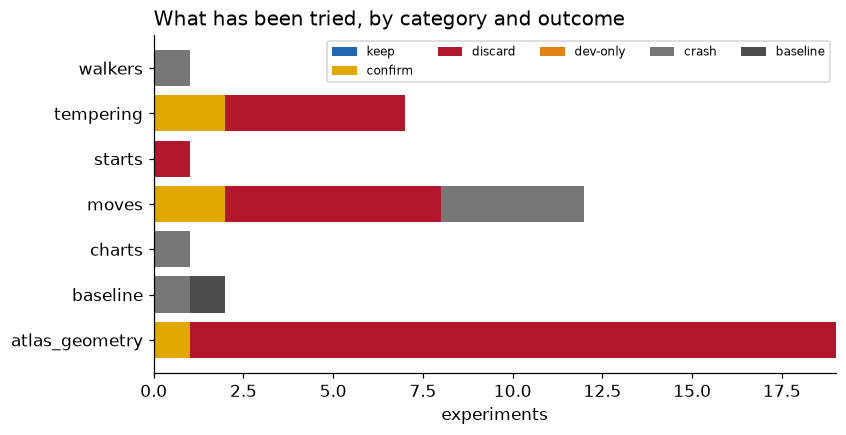
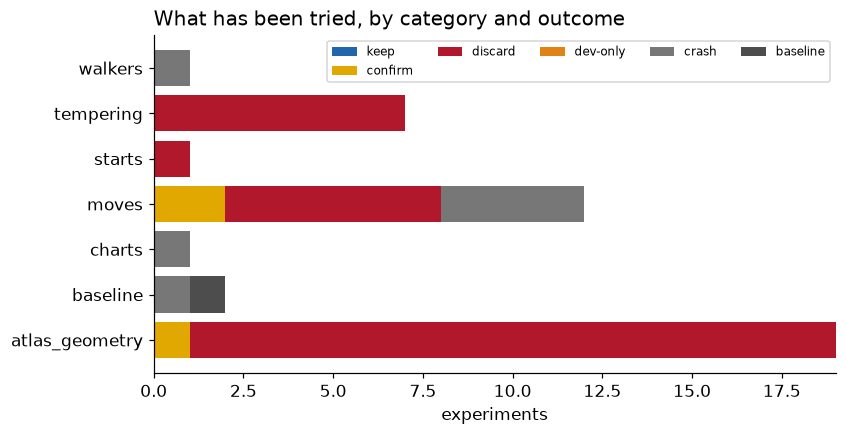
tempering records annotated as void (kernel failed the toy known-answer test); page rebuilt
Claude-Session: https://claude.ai/code/session_01EtMWeqbawAK9mUR4GH8rQ1

Changed region(s): [[0.1844, 0.2092, 0.2766, 0.2989]]

diff --git a/docs/index.html b/docs/index.html
@@ -12,7 +12,7 @@ th{background:#f4f6f8} code{background:#f4f6f8;padding:0 .2rem} pre{background:#
 .now{background:#fff8e6;border-left:4px solid #e0a800;padding:.6rem 1rem;margin:1rem 0;font-size:.95rem}
 </style></head><body>
 <h1>SARLA autoresearch: making CARDAMOM's calibration fast without making it wrong</h1>
-<p class="small">Updated 2026-09-03 17:06 PDT. An automated research loop run by a Claude Code session, with a Codex advisor
+<p class="small">Updated 2026-09-03 17:18 PDT. An automated research loop run by a Claude Code session, with a Codex advisor
 after each iteration. Repository: <a href="https://github.com/sudshu/sarla-autoresearch">sudshu/sarla-autoresearch</a>.</p>
 
 <h2>In one paragraph</h2>
@@ -32,8 +32,8 @@ holdout sites that are never used for choosing, so the method cannot be tuned to
 <div><b>~50 min</b>per site fit (vs 33 h)</div>
 </div>
 
-<div class="now"><b>Latest:</b> Iteration 35 (2026-09-03 18:30 PDT): full-posterior tempering on the REAL NL-Loo data puts 22% of the mass in the high-allocation budget; ADEMCMC says 82%<br>
-<b>Right now:</b> iteration 34: 1 fits running, 0 waiting, 3 done<br>iteration 36: 1 fits running, 0 waiting, 1 done<br>iteration 37: 2 fits running, 2 waiting, 0 done<br>iteration 38: 1 fits running, 5 waiting, 0 done<br>iteration 39: 0 fits running, 4 waiting, 0 done<br>iteration 40: 0 fits running, 4 waiting, 0 done<br>iteration 41: 0 fits running, 4 waiting, 0 done<br>GPU hosts: h100: 3 running; kyo: 2 running<br>queue snapshot 2026-09-03 17:06 PDT</div>
+<div class="now"><b>Latest:</b> Toy referee (2026-09-03 20:10 PDT): the tempering kernel is biased; its tempering results are withdrawn pending a fix<br>
+<b>Right now:</b> iteration 34: 1 fits running, 0 waiting, 3 done<br>iteration 37: 2 fits running, 2 waiting, 0 done<br>iteration 38: 2 fits running, 4 waiting, 0 done<br>iteration 39: 0 fits running, 4 waiting, 0 done<br>iteration 40: 0 fits running, 4 waiting, 0 done<br>iteration 41: 0 fits running, 4 waiting, 0 done<br>iteration 42: 0 fits running, 1 waiting, 0 done<br>iteration 43: 0 fits running, 2 waiting, 0 done<br>GPU hosts: h100: 3 running; kyo: 2 running<br>queue snapshot 2026-09-03 17:16 PDT</div>
 
 <h2>How to read this page</h2>
 <ul>
@@ -71,7 +71,7 @@ posterior is too narrow or misplaced). Grey band: holdout sites.</p>
 <p class="small">Rows marked <b>v1-invalid</b> were scored against protocol-v1 truths, which the model's own
 ecological constraints reject (see the log entry "Protocol v2"); they are kept for the record and decide nothing.</p>
 <table><tr><th>#</th><th>iter</th><th>variant</th><th>category</th><th>G dev</th><th>G holdout</th><th>status</th><th>what and why</th></tr>
-<tr><td>43</td><td>33</td><td>t2_pt16_full</td><td>tempering</td><td>0.952</td><td></td><td style='color:#e0a800'><b>confirm</b></td><td>Full-posterior tempering, 16 rungs: NL-Loo three seeds G 0.75/0.65/0.68 (sd 0.05) with high-allocation mass 0.39/0.36/0.17 (sd 0.12, truth 0.64); DK-Sor 1.29/1.46/1.28 with mass 0.07-0.12 (sd 0.02, truth 0.29); BE-Vie 1.06 and DE-Gri 0.71 one seed each. Dev G 0.95 so far. Most seed-stable variant yet; mode gate marginal at NL-Loo; two more seeds at BE-Vie and DE-Gri queued (iteration 40) for the v4 decision.</td></tr><tr><td>42</td><td>32</td><td>s16_surgery_indep</td><td>atlas_geometry</td><td>1.851</td><td></td><td style='color:#b2182b'><b>discard</b></td><td>Surgery atlas + exact independence-MH jumps from the frozen atlas mixture (20% of steps): the jumps are accepted at a rate of 5e-5 to 1e-4, i.e. the atlas mixture is a useless global proposal at 89-D (its ESS 0.0002 said so); dev G 1.85 with NL-Loo in the wrong basin (4.42). Discarded.</td></tr><tr><td>41</td><td>30</td><td>h14_de64</td><td>moves</td><td>1.190</td><td></td><td style='color:#b2182b'><b>discard</b></td><td>Chart + DE at 64 walkers x 32k steps, three seeds on NL-Loo and DK-Sor: G 0.68 to 1.36; longer trajectories do not stabilise the mode weights (see per-seed high-mode fractions in the log).</td></tr><tr><td>40</td><td>31</td><td>s15_surgery_nobranchinf_de128</td><td>atlas_geometry</td><td>0.960</td><td></td><td style='color:#b2182b'><b>discard</b></td><td>Gate-fix surgery atlas + DE kernel, single seed: dev G 0.96 (NL-Loo 1.12, BE-Vie 0.91, DE-Gri 0.69, DK-Sor 1.11), equal to surgery+DE with the default atlas. High-allocation mass 0.03 to 0.15 at every site, i.e. consistently in the low-allocation budget even where the truth is high (NL-Loo 0.64, BE-Vie 0.74).</td></tr><tr><td>39</td><td>29</td><td>s14_surgery_audit16k</td><td>atlas_geometry</td><td>1.107</td><td></td><td style='color:#b2182b'><b>discard</b></td><td>Surgery with 16384 audit draws per round and an ESS stop (sampling shortened to 30k steps): single seed, dev G about 1.1; the audit ESS never approaches the stop threshold, so a four-times larger audit does not change the atlas&#x27;s coverage.</td></tr><tr><td>38</td><td>28</td><td>s9_surgery_nobranchinf</td><td>atlas_geometry</td><td>1.467</td><td></td><td style='color:#b2182b'><b>discard</b></td><td>Gate-fix surgery atlas (chart walk), three seeds pooled with iteration 20: dev G 1.47 +/- 0.56, driven by NL-Loo 0.95 / 2.64 / 5.20 (one seed lands in the wrong basin). The 0.93 screen was seed luck; the chart walk on this atlas is as erratic as the baseline at NL-Loo. Mode gate fails at DK-Sor (0.42/0.14/0.20). Not promoted.</td></tr><tr><td>37</td><td>27</td><td>t2_pt16_full</td><td>tempering</td><td>1.022</td><td></td><td style='color:#e0a800'><b>confirm</b></td><td>Full-posterior tempering (EDC penalties flattened too, hard gate kept), 16 rungs, swaps 27-40%: NL-Loo G 0.75 with density rank 0.95 and high-allocation mass 0.39 (truth 0.64), the first tempering run whose cold rung reaches the truth&#x27;s density (best -275 vs truth -284); DK-Sor 1.30 (mass 0.09, truth 0.29). Two sites, one seed; remaining dev sites and two more seeds queued (iteration 33).</td></tr><tr><td>36</td><td>26</td><td>s13_surgery_geomops</td><td>atlas_geometry</td><td>1.180</td><td></td><td style='color:#b2182b'><b>discard</b></td><td>Surgery with rank changes only for 18+ dimension jumps, feasible-path connectivity, 89-D tolerances: first 89-D run with a geometric operation mix (60-73 refines, 6-10 splits, 1-10 rank changes, 2-5 branches per fit) but dev G 1.18 on one seed (NL-Loo 1.76, DK-Sor 1.48; BE-Vie 0.79, DE-Gri 0.69). The right operations, no better coverage: the audit still ends with about 100 uncovered draws and ESS 0.0002.</td></tr><tr><td>35</td><td>25</td><td>s12_surgery_feaspath_de128</td><td>atlas_geometry</td><td>1.132</td><td></td><td style='color:#b2182b'><b>discard</b></td><td>Feasible-path surgery atlas + DE kernel, single seed: dev G about 1.2 (0.80 to 1.39 across sites), below surgery+DE with default or gate-fix atlases.</td></tr><tr><td>34</td><td>24</td><td>t1_pt16_de_2x</td><td>tempering</td><td>1.171</td><td></td><td style='color:#b2182b'><b>discard</b></td><td>DIAGNOSTIC at 2x the sampling budget (4.1M evaluations), 16-rung ladder with working swaps: NL-Loo and DK-Sor still end with density rank 1.00 and cold-rung medians 25-30 nats below the truth; high-allocation mass at NL-Loo stays far below the truth&#x27;s mode. Time is not the missing ingredient; tempering does not equilibrate the mode weights here. Not a promotion candidate.</td></tr><tr><td>33</td><td>23</td><td>s11_surgery_feaspath</td><td>atlas_geometry</td><td>1.356</td><td></td><td style='color:#b2182b'><b>discard</b></td><td>Surgery with feasible-path connectivity (infeasible midpoints repaired by nearby feasible perturbations), single seed: dev G 1.36 (DK-Sor 1.96), worse than the simpler gate-fix variant (0.93); operation mix unchanged (about 75 rank-changes per fit).</td></tr><tr><td>32</td><td>22</td><td>s10_surgery_adaptcov</td><td>atlas_geometry</td><td>1.163</td><td></td><td style='color:#b2182b'><b>discard</b></td><td>Surgery atlas + adaptive pooled-covariance kernel (no DE jumps), single seed: erratic across sites (0.53 to 1.71); the learned covariance does not replace cross-mode moves.</td></tr><tr><td>31</td><td>20</td><td>s9_surgery_nobranchinf</td><td>atlas_geometry</td><td>0.934</td><td></td><td style='color:#b2182b'><b>discard</b></td><td>Surgery with gate-crossing segments treated as unknown (no false branches), single seed: dev G 0.93 (NL-Loo 0.96, BE-Vie 1.00, DE-Gri 0.72, DK-Sor 1.06), the best surgery-only screen and level with surgery+DE (0.92). Branches fall to 2-5 per fit but rank-change takes over (77-82), so the repair is still mostly add-a-chart; confirmation seeds needed.</td></tr><tr><td>30</td><td>19</td><td>t1_pt6_de</td><td>tempering</td><td>0.977</td><td></td><td style='color:#b2182b'><b>discard</b></td><td>Six-rung likelihood tempering (beta 1 -&gt; 0.03), 24 walkers per rung: dev G 0.98 on one seed; swap acceptance 3-18%. High-allocation mass 0.30 at NL-Loo and 0.23 at BE-Vie where the truths sit in that mode (0.64, 0.74): still under-weighted.</td></tr><tr><td>29</td><td>21</td><td>t1_pt16_de</td><td>tempering</td><td>1.208</td><td></td><td style='color:#b2182b'><b>discard</b></td><td>16-rung likelihood tempering (ratio 0.79), 16 walkers per rung, swaps every 5 steps: the ladder now works (adjacent swap acceptance 26-42%) but on one seed the cold rung still misses: NL-Loo G 0.96, density rank 1.00, high-allocation mass 0.12 with the truth in that mode (median cold log-posterior 40 nats below the truth); DK-Sor 1.46. Working ladder, insufficient steps per walker at this budget.</td></tr><tr><td>28</td><td>18</td><td>h13_de256</td><td>moves</td><td>1.608</td><td></td><td style='color:#b2182b'><b>discard</b></td><td>Chart + DE at 256 walkers x 8k steps, three seeds on NL-Loo and DK-Sor only: worse G (NL-Loo 1.44-1.64, DK-Sor 1.59-1.81; 8k steps too few) and mode weights still seed-dependent (NL-Loo high-mode mass 0.38/0.46/0.67). More walkers do not stabilise the weights.</td></tr><tr><td>27</td><td>17</td><td>t1_pt_de_surgery</td><td>tempering</td><td>0.993</td><td></td><td style='color:#b2182b'><b>discard</b></td><td>Same tempering with the surgery atlas: 0.99, swap acceptance 0-2%.</td></tr><tr><td>26</td><td>17</td><td>t1_pt_de</td><td>tempering</td><td>0.978</td><td></td><td style='color:#b2182b'><b>discard</b></td><td>Likelihood-only parallel tempering, 4 rungs (beta 1/0.37/0.14/0.05), 32 walkers each, chart/DE within rungs: dev G 0.98 on one seed, but adjacent-rung swap acceptance 0-2%, so the rungs do not communicate and the run is effectively DE with 32 walkers. NL-Loo high-mode mass 0.22 (truth in that mode). 16-rung ladder queued (iteration 21).</td></tr><tr><td>25</td><td>16</td><td>s8_surgery_absrank</td><td>atlas_geometry</td><td>1.197</td><td></td><td style='color:#b2182b'><b>discard</b></td><td>Surgery with the spectral-gap rule off, 4x rank hysteresis and a 1000-nat branch dip: single seed. Operations still 39 branch / 45 rank-change per fit: the straight segment between feasible points crosses the hard gate almost always, so the connectivity test was reporting infeasibility, not strata (fixed as an option, tested in iteration 20).</td></tr><tr><td>24</td><td>15</td><td>h3_stretch128</td><td>moves</td><td>1.001</td><td></td><td style='color:#b2182b'><b>discard</b></td><td>Chart + stretch (128 x 16k), three fresh seeds under v4: dev G 1.00 +/- 0.03, t = 2.9 PASSES; mode-weight gate FAILS (high-mode mass 0.60/0.75/0.30 at NL-Loo, 0.04/0.99/0.08 at DK-Sor). Same verdict as DE. Not promoted.</td></tr><tr><td>23</td><td>14</td><td>s4_surgery_de128</td><td>atlas_geometry</td><td>0.964</td><td></td><td style='color:#b2182b'><b>discard</b></td><td>Surgery atlas + DE kernel, three seeds: dev G 0.96 +/- 0.04 vs baseline 1.72 +/- 0.43, t = 3.0 PASSES the score test; mode-weight gate FAILS at NL-Loo (high-mode mass 0.54/0.32/0.79, sd 0.23), passes at DK-Sor (0.11/0.05/0.06). Real NL-Loo data: 0.61 vs ADEMCMC 0.815. Best score so far; not promoted.</td></tr><tr><td>22</td><td>13</td><td>h2_de128</td><td>moves</td><td>1.068</td><td></td><td style='color:#b2182b'><b>discard</b></td><td>Chart + DE (128 x 16k), three fresh seeds under protocol v4: dev G 1.07 +/- 0.08 vs baseline 1.72 +/- 0.43, two-sample t = 2.6 PASSES; mode-weight gate FAILS: high-allocation mass across seeds 0.61/0.84/0.71 at NL-Loo (sd 0.11) and 0.97/0.06/0.27 at DK-Sor (sd 0.48). Better average, unreliable mode weights. Not promoted.</td></tr><tr><td>21</td><td>12</td><td>s7_surgery_volume_de128</td><td>atlas_geometry</td><td>1.026</td><td></td><td style='color:#b2182b'><b>discard</b></td><td>Volume-weighted surgery + DE kernel, one seed: 1.03 (NL-Loo 0.85, BE-Vie 1.06, DE-Gri 0.86, DK-Sor 1.34); not better than surgery + DE with uniform weights (0.92).</td></tr><tr><td>20</td><td>12</td><td>s3_surgery_volume</td><td>atlas_geometry</td><td>1.131</td><td></td><td style='color:#b2182b'><b>discard</b></td><td>Surgery with tangent-volume weights, three seeds (pooled with iteration 8): dev G about 1.16 +/- 0.05 vs baseline 1.72; below the v3 threshold; seed-stable. NL-Loo stays at density rank 1.00 (1.44 / 1.56 / 1.46).</td></tr><tr><td>19</td><td>11</td><td>s6_surgery_tol89d</td><td>atlas_geometry</td><td>1.054</td><td></td><td style='color:#b2182b'><b>discard</b></td><td>Surgery with 89-D tolerances (model_tol 20, bend_tol 3, branch_tau 100, 16 flags, volume weights): 1.05 on one seed. Diagnostics unchanged: 36-45 branches and 34-45 rank-changes per fit, ESS 0.0002, no extend. The rank rule and the straight-segment connectivity test do not describe this posterior&#x27;s geometry.</td></tr><tr><td>18</td><td>10</td><td>s5_surgery_btau100</td><td>atlas_geometry</td><td>1.007</td><td></td><td style='color:#b2182b'><b>discard</b></td><td>Surgery with branch only above a 100-nat dip and 16 flags/round: 1.01 on one seed; DK-Sor 0.92 with a near-perfect typical-set gap, NL-Loo 1.26 (rank 1.00).</td></tr><tr><td>17</td><td>10</td><td>s4_surgery_de128</td><td>atlas_geometry</td><td>0.919</td><td></td><td style='color:#e0a800'><b>confirm</b></td><td>Surgery atlas + chart/DE kernel (128 x 16k): dev G 0.92 on one seed, best single-seed screen so far (NL-Loo 0.97, BE-Vie 0.80, DE-Gri 0.85, DK-Sor 1.06). Confirmation seeds queued (iteration 14).</td></tr><tr><td>16</td><td>9</td><td>h3_stretch128</td><td>moves</td><td>1.053</td><td></td><td style='color:#b2182b'><b>discard</b></td><td>Chart + stretch moves (128 x 16k), three seeds: dev G about 1.06 with very small seed spread; same situation as DE under v3.</td></tr><tr><td>15</td><td>9</td><td>h2_de128</td><td>moves</td><td>1.048</td><td></td><td style='color:#b2182b'><b>discard</b></td><td>Chart + DE moves (128 x 16k), three seeds: dev G 1.05 +/- 0.09 vs baseline 1.72 +/- 0.43. Under the v3 rule (0.86 below baseline) not accepted; the two-sample test gives t = 2.6. Re-tested with three fresh seeds under protocol v4 in iteration 13.</td></tr><tr><td>14</td><td>8</td><td>s3_surgery_volume</td><td>atlas_geometry</td><td>1.163</td><td></td><td style='color:#b2182b'><b>discard</b></td><td>Surgery with tangent-volume mixture weights: 1.16 (one seed), best of the three; the sampler&#x27;s best draws reach the truth&#x27;s density at 3 of 4 sites.</td></tr><tr><td>13</td><td>8</td><td>s2_surgery_noproj</td><td>atlas_geometry</td><td>1.287</td><td></td><td style='color:#b2182b'><b>discard</b></td><td>Surgery without normal projection: 1.29 (one seed). Worse than with projection at DK-Sor (1.48 vs 1.02), better at NL-Loo (1.74 vs 2.79): no clean signal yet.</td></tr><tr><td>12</td><td>8</td><td>s1_surgery</td><td>atlas_geometry</td><td>1.332</td><td></td><td style='color:#b2182b'><b>discard</b></td><td>Topology-aware surgery, defaults: dev G 1.33 vs 1.72 (one seed; below the 0.86 threshold). Better at DK-Sor (1.02 vs 3.5) and BE-Vie, worse at NL-Loo (2.79). 89-D trace: 27 branches, 11 rank-changes, 4 refines, 0 extend/merge; ESS 0.0002 after 6 rounds.</td></tr><tr><td>11</td><td>5</td><td>h9_seedstarts</td><td>starts</td><td>1.329</td><td></td><td style='color:#b2182b'><b>discard</b></td><td>Chains start from the polished seeds instead of chart centres: 1.33, no gain; NL-Loo and DK-Sor still miss the basin (rank 1.00).</td></tr><tr><td>10</td><td>5</td><td>h3_stretch128</td><td>moves</td><td>1.045</td><td></td><td style='color:#e0a800'><b>confirm</b></td><td>Chart + stretch moves, 128 x 16k: dev G 1.05 vs 1.72 (one seed); confirmation seeds queued. DK-Sor 1.29.</td></tr><tr><td>9</td><td>5</td><td>h2_de128</td><td>moves</td><td>0.962</td><td></td><td style='color:#e0a800'><b>confirm</b></td><td>Chart + DE moves, 128 walkers x 16k: dev G 0.96 vs baseline 1.72 (one seed). Improvement 0.76 is just under the noise floor 0.86; two more kernel seeds queued (iteration 9) before deciding. DK-Sor 1.36 vs 3.5.</td></tr><tr><td>8</td><td>4</td><td>v3_baseline</td><td>baseline</td><td>1.717</td><td>5.000</td><td style='color:#4d4d4d'><b>baseline</b></td><td>Protocol v2/v3 baseline: the v3 fast path at 4 dev sites x 3 seeds (+ CZ-wet holdout). Fails by never reaching the posterior basin at NL-Loo (density rank 1.00 all seeds), DK-Sor (G 14/2.6/3.0) and CZ-wet (5.2); fine at BE-Vie and DE-Gri.</td></tr><tr><td>7</td><td>2</td><td>h5_flat3</td><td>charts</td><td>1.447</td><td></td><td style='color:#bbbbbb'><b>v1-invalid</b></td><td>Chart proposal inflated x sqrt(3) in flat directions: 1.45 (v1 truths); worse at NL-Loo and BE-Vie.</td></tr><tr><td>6</td><td>2</td><td>h3_stretch128</td><td>moves</td><td>1.188</td><td></td><td style='color:#bbbbbb'><b>v1-invalid</b></td><td>Chart + stretch at 128 walkers x 16k steps: 1.19 (v1 truths), equal to baseline at equal wall-clock.</td></tr><tr><td>5</td><td>2</td><td>h2_de128</td><td>moves</td><td>1.358</td><td></td><td style='color:#bbbbbb'><b>v1-invalid</b></td><td>Chart + DE at 128 walkers x 16k steps: 1.36 (v1 truths). Good at ES-LJu (0.37) and DE-Gri, but collapsed at BE-Vie (3.57, rank 0.01).</td></tr><tr><td>4</td><td>1</td><td>h3_stretch512</td><td>moves</td><td>1.199</td><td></td><td style='color:#bbbbbb'><b>v1-invalid</b></td><td>Chart + Goodman-Weare stretch at 512 walkers: 1.20, equal to baseline at 62% of the wall-clock (34 vs 53 min). Best of the three; the 128-walker x 16k-step version runs in iteration 2.</td></tr><tr><td>3</td><td>1</td><td>h2_de512</td><td>moves</td><td>1.299</td><td></td><td style='color:#bbbbbb'><b>v1-invalid</b></td><td>Chart + differential-evolution moves at 512 walkers: 1.30, no gain. BE-Vie unchanged (2.57); DE collapsed too tightly at DE-Gri (rank 0.12).</td></tr><tr><td>2</td><td>1</td><td>h1_walkers512</td><td>walkers</td><td>1.425</td><td></td><td style='color:#bbbbbb'><b>v1-invalid</b></td><td>8x walkers (512 x 4k steps), chart moves only: worse (1.43). Walkers never contract in 2k burn-in steps: over-dispersed at ES-LJu (50% intervals hold 78%), density rank 0.9.</td></tr><tr><td>1</td><td>0</td><td>v3_baseline</td><td>baseline</td><td>1.190</td><td>2.005</td><td style='color:#bbbbbb'><b>v1-invalid</b></td><td>Baseline: the v3 fast path (chart-shaped walk, 64 chains x 32k steps, region screen + restarts) at 4 dev sites x 3 seeds and 4 holdout sites. Sets the noise floor.</td></tr></table>
+<tr><td>43</td><td>33</td><td>t2_pt16_full</td><td>tempering</td><td>0.952</td><td></td><td style='color:#b2182b'><b>discard</b></td><td>[KERNEL FAILED KNOWN-ANSWER TEST 2026-09-03: on the 24-D toy this tempering kernel gives basin-mass TV 0.44 vs 0.13 for the chart walk; treat as void] Full-posterior tempering, 16 rungs: NL-Loo three seeds G 0.75/0.65/0.68 (sd 0.05) with high-allocation mass 0.39/0.36/0.17 (sd 0.12, truth 0.64); DK-Sor 1.29/1.46/1.28 with mass 0.07-0.12 (sd 0.02, truth 0.29); BE-Vie 1.06 and DE-Gri 0.71 one seed each. Dev G 0.95 so far. Most seed-stable variant yet; mode gate marginal at NL-Loo; two more seeds at BE-Vie and DE-Gri queued (iteration 40) for the v4 decision.</td></tr><tr><td>42</td><td>32</td><td>s16_surgery_indep</td><td>atlas_geometry</td><td>1.851</td><td></td><td style='color:#b2182b'><b>discard</b></td><td>Surgery atlas + exact independence-MH jumps from the frozen atlas mixture (20% of steps): the jumps are accepted at a rate of 5e-5 to 1e-4, i.e. the atlas mixture is a useless global proposal at 89-D (its ESS 0.0002 said so); dev G 1.85 with NL-Loo in the wrong basin (4.42). Discarded.</td></tr><tr><td>41</td><td>30</td><td>h14_de64</td><td>moves</td><td>1.190</td><td></td><td style='color:#b2182b'><b>discard</b></td><td>Chart + DE at 64 walkers x 32k steps, three seeds on NL-Loo and DK-Sor: G 0.68 to 1.36; longer trajectories do not stabilise the mode weights (see per-seed high-mode fractions in the log).</td></tr><tr><td>40</td><td>31</td><td>s15_surgery_nobranchinf_de128</td><td>atlas_geometry</td><td>0.960</td><td></td><td style='color:#b2182b'><b>discard</b></td><td>Gate-fix surgery atlas + DE kernel, single seed: dev G 0.96 (NL-Loo 1.12, BE-Vie 0.91, DE-Gri 0.69, DK-Sor 1.11), equal to surgery+DE with the default atlas. High-allocation mass 0.03 to 0.15 at every site, i.e. consistently in the low-allocation budget even where the truth is high (NL-Loo 0.64, BE-Vie 0.74).</td></tr><tr><td>39</td><td>29</td><td>s14_surgery_audit16k</td><td>atlas_geometry</td><td>1.107</td><td></td><td style='color:#b2182b'><b>discard</b></td><td>Surgery with 16384 audit draws per round and an ESS stop (sampling shortened to 30k steps): single seed, dev G about 1.1; the audit ESS never approaches the stop threshold, so a four-times larger audit does not change the atlas&#x27;s coverage.</td></tr><tr><td>38</td><td>28</td><td>s9_surgery_nobranchinf</td><td>atlas_geometry</td><td>1.467</td><td></td><td style='color:#b2182b'><b>discard</b></td><td>Gate-fix surgery atlas (chart walk), three seeds pooled with iteration 20: dev G 1.47 +/- 0.56, driven by NL-Loo 0.95 / 2.64 / 5.20 (one seed lands in the wrong basin). The 0.93 screen was seed luck; the chart walk on this atlas is as erratic as the baseline at NL-Loo. Mode gate fails at DK-Sor (0.42/0.14/0.20). Not promoted.</td></tr><tr><td>37</td><td>27</td><td>t2_pt16_full</td><td>tempering</td><td>1.022</td><td></td><td style='color:#b2182b'><b>discard</b></td><td>[KERNEL FAILED KNOWN-ANSWER TEST 2026-09-03: on the 24-D toy this tempering kernel gives basin-mass TV 0.44 vs 0.13 for the chart walk; treat as void] Full-posterior tempering (EDC penalties flattened too, hard gate kept), 16 rungs, swaps 27-40%: NL-Loo G 0.75 with density rank 0.95 and high-allocation mass 0.39 (truth 0.64), the first tempering run whose cold rung reaches the truth&#x27;s density (best -275 vs truth -284); DK-Sor 1.30 (mass 0.09, truth 0.29). Two sites, one seed; remaining dev sites and two more seeds queued (iteration 33).</td></tr><tr><td>36</td><td>26</td><td>s13_surgery_geomops</td><td>atlas_geometry</td><td>1.180</td><td></td><td style='color:#b2182b'><b>discard</b></td><td>Surgery with rank changes only for 18+ dimension jumps, feasible-path connectivity, 89-D tolerances: first 89-D run with a geometric operation mix (60-73 refines, 6-10 splits, 1-10 rank changes, 2-5 branches per fit) but dev G 1.18 on one seed (NL-Loo 1.76, DK-Sor 1.48; BE-Vie 0.79, DE-Gri 0.69). The right operations, no better coverage: the audit still ends with about 100 uncovered draws and ESS 0.0002.</td></tr><tr><td>35</td><td>25</td><td>s12_surgery_feaspath_de128</td><td>atlas_geometry</td><td>1.132</td><td></td><td style='color:#b2182b'><b>discard</b></td><td>Feasible-path surgery atlas + DE kernel, single seed: dev G about 1.2 (0.80 to 1.39 across sites), below surgery+DE with default or gate-fix atlases.</td></tr><tr><td>34</td><td>24</td><td>t1_pt16_de_2x</td><td>tempering</td><td>1.171</td><td></td><td style='color:#b2182b'><b>discard</b></td><td>[KERNEL FAILED KNOWN-ANSWER TEST 2026-09-03: on the 24-D toy this tempering kernel gives basin-mass TV 0.44 vs 0.13 for the chart walk; treat as void] DIAGNOSTIC at 2x the sampling budget (4.1M evaluations), 16-rung ladder with working swaps: NL-Loo and DK-Sor still end with density rank 1.00 and cold-rung medians 25-30 nats below the truth; high-allocation mass at NL-Loo stays far below the truth&#x27;s mode. Time is not the missing ingredient; tempering does not equilibrate the mode weights here. Not a promotion candidate.</td></tr><tr><td>33</td><td>23</td><td>s11_surgery_feaspath</td><td>atlas_geometry</td><td>1.356</td><td></td><td style='color:#b2182b'><b>discard</b></td><td>Surgery with feasible-path connectivity (infeasible midpoints repaired by nearby feasible perturbations), single seed: dev G 1.36 (DK-Sor 1.96), worse than the simpler gate-fix variant (0.93); operation mix unchanged (about 75 rank-changes per fit).</td></tr><tr><td>32</td><td>22</td><td>s10_surgery_adaptcov</td><td>atlas_geometry</td><td>1.163</td><td></td><td style='color:#b2182b'><b>discard</b></td><td>Surgery atlas + adaptive pooled-covariance kernel (no DE jumps), single seed: erratic across sites (0.53 to 1.71); the learned covariance does not replace cross-mode moves.</td></tr><tr><td>31</td><td>20</td><td>s9_surgery_nobranchinf</td><td>atlas_geometry</td><td>0.934</td><td></td><td style='color:#b2182b'><b>discard</b></td><td>Surgery with gate-crossing segments treated as unknown (no false branches), single seed: dev G 0.93 (NL-Loo 0.96, BE-Vie 1.00, DE-Gri 0.72, DK-Sor 1.06), the best surgery-only screen and level with surgery+DE (0.92). Branches fall to 2-5 per fit but rank-change takes over (77-82), so the repair is still mostly add-a-chart; confirmation seeds needed.</td></tr><tr><td>30</td><td>19</td><td>t1_pt6_de</td><td>tempering</td><td>0.977</td><td></td><td style='color:#b2182b'><b>discard</b></td><td>[KERNEL FAILED KNOWN-ANSWER TEST 2026-09-03: on the 24-D toy this tempering kernel gives basin-mass TV 0.44 vs 0.13 for the chart walk; treat as void] Six-rung likelihood tempering (beta 1 -&gt; 0.03), 24 walkers per rung: dev G 0.98 on one seed; swap acceptance 3-18%. High-allocation mass 0.30 at NL-Loo and 0.23 at BE-Vie where the truths sit in that mode (0.64, 0.74): still under-weighted.</td></tr><tr><td>29</td><td>21</td><td>t1_pt16_de</td><td>tempering</td><td>1.208</td><td></td><td style='color:#b2182b'><b>discard</b></td><td>[KERNEL FAILED KNOWN-ANSWER TEST 2026-09-03: on the 24-D toy this tempering kernel gives basin-mass TV 0.44 vs 0.13 for the chart walk; treat as void] 16-rung likelihood tempering (ratio 0.79), 16 walkers per rung, swaps every 5 steps: the ladder now works (adjacent swap acceptance 26-42%) but on one seed the cold rung still misses: NL-Loo G 0.96, density rank 1.00, high-allocation mass 0.12 with the truth in that mode (median cold log-posterior 40 nats below the truth); DK-Sor 1.46. Working ladder, insufficient steps per walker at this budget.</td></tr><tr><td>28</td><td>18</td><td>h13_de256</td><td>moves</td><td>1.608</td><td></td><td style='color:#b2182b'><b>discard</b></td><td>Chart + DE at 256 walkers x 8k steps, three seeds on NL-Loo and DK-Sor only: worse G (NL-Loo 1.44-1.64, DK-Sor 1.59-1.81; 8k steps too few) and mode weights still seed-dependent (NL-Loo high-mode mass 0.38/0.46/0.67). More walkers do not stabilise the weights.</td></tr><tr><td>27</td><td>17</td><td>t1_pt_de_surgery</td><td>tempering</td><td>0.993</td><td></td><td style='color:#b2182b'><b>discard</b></td><td>[KERNEL FAILED KNOWN-ANSWER TEST 2026-09-03: on the 24-D toy this tempering kernel gives basin-mass TV 0.44 vs 0.13 for the chart walk; treat as void] Same tempering with the surgery atlas: 0.99, swap acceptance 0-2%.</td></tr><tr><td>26</td><td>17</td><td>t1_pt_de</td><td>tempering</td><td>0.978</td><td></td><td style='color:#b2182b'><b>discard</b></td><td>[KERNEL FAILED KNOWN-ANSWER TEST 2026-09-03: on the 24-D toy this tempering kernel gives basin-mass TV 0.44 vs 0.13 for the chart walk; treat as void] Likelihood-only parallel tempering, 4 rungs (beta 1/0.37/0.14/0.05), 32 walkers each, chart/DE within rungs: dev G 0.98 on one seed, but adjacent-rung swap acceptance 0-2%, so the rungs do not communicate and the run is effectively DE with 32 walkers. NL-Loo high-mode mass 0.22 (truth in that mode). 16-rung ladder queued (iteration 21).</td></tr><tr><td>25</td><td>16</td><td>s8_surgery_absrank</td><td>atlas_geometry</td><td>1.197</td><td></td><td style='color:#b2182b'><b>discard</b></td><td>Surgery with the spectral-gap rule off, 4x rank hysteresis and a 1000-nat branch dip: single seed. Operations still 39 branch / 45 rank-change per fit: the straight segment between feasible points crosses the hard gate almost always, so the connectivity test was reporting infeasibility, not strata (fixed as an option, tested in iteration 20).</td></tr><tr><td>24</td><td>15</td><td>h3_stretch128</td><td>moves</td><td>1.001</td><td></td><td style='color:#b2182b'><b>discard</b></td><td>Chart + stretch (128 x 16k), three fresh seeds under v4: dev G 1.00 +/- 0.03, t = 2.9 PASSES; mode-weight gate FAILS (high-mode mass 0.60/0.75/0.30 at NL-Loo, 0.04/0.99/0.08 at DK-Sor). Same verdict as DE. Not promoted.</td></tr><tr><td>23</td><td>14</td><td>s4_surgery_de128</td><td>atlas_geometry</td><td>0.964</td><td></td><td style='color:#b2182b'><b>discard</b></td><td>Surgery atlas + DE kernel, three seeds: dev G 0.96 +/- 0.04 vs baseline 1.72 +/- 0.43, t = 3.0 PASSES the score test; mode-weight gate FAILS at NL-Loo (high-mode mass 0.54/0.32/0.79, sd 0.23), passes at DK-Sor (0.11/0.05/0.06). Real NL-Loo data: 0.61 vs ADEMCMC 0.815. Best score so far; not promoted.</td></tr><tr><td>22</td><td>13</td><td>h2_de128</td><td>moves</td><td>1.068</td><td></td><td style='color:#b2182b'><b>discard</b></td><td>Chart + DE (128 x 16k), three fresh seeds under protocol v4: dev G 1.07 +/- 0.08 vs baseline 1.72 +/- 0.43, two-sample t = 2.6 PASSES; mode-weight gate FAILS: high-allocation mass across seeds 0.61/0.84/0.71 at NL-Loo (sd 0.11) and 0.97/0.06/0.27 at DK-Sor (sd 0.48). Better average, unreliable mode weights. Not promoted.</td></tr><tr><td>21</td><td>12</td><td>s7_surgery_volume_de128</td><td>atlas_geometry</td><td>1.026</td><td></td><td style='color:#b2182b'><b>discard</b></td><td>Volume-weighted surgery + DE kernel, one seed: 1.03 (NL-Loo 0.85, BE-Vie 1.06, DE-Gri 0.86, DK-Sor 1.34); not better than surgery + DE with uniform weights (0.92).</td></tr><tr><td>20</td><td>12</td><td>s3_surgery_volume</td><td>atlas_geometry</td><td>1.131</td><td></td><td style='color:#b2182b'><b>discard</b></td><td>Surgery with tangent-volume weights, three seeds (pooled with iteration 8): dev G about 1.16 +/- 0.05 vs baseline 1.72; below the v3 threshold; seed-stable. NL-Loo stays at density rank 1.00 (1.44 / 1.56 / 1.46).</td></tr><tr><td>19</td><td>11</td><td>s6_surgery_tol89d</td><td>atlas_geometry</td><td>1.054</td><td></td><td style='color:#b2182b'><b>discard</b></td><td>Surgery with 89-D tolerances (model_tol 20, bend_tol 3, branch_tau 100, 16 flags, volume weights): 1.05 on one seed. Diagnostics unchanged: 36-45 branches and 34-45 rank-changes per fit, ESS 0.0002, no extend. The rank rule and the straight-segment connectivity test do not describe this posterior&#x27;s geometry.</td></tr><tr><td>18</td><td>10</td><td>s5_surgery_btau100</td><td>atlas_geometry</td><td>1.007</td><td></td><td style='color:#b2182b'><b>discard</b></td><td>Surgery with branch only above a 100-nat dip and 16 flags/round: 1.01 on one seed; DK-Sor 0.92 with a near-perfect typical-set gap, NL-Loo 1.26 (rank 1.00).</td></tr><tr><td>17</td><td>10</td><td>s4_surgery_de128</td><td>atlas_geometry</td><td>0.919</td><td></td><td style='color:#e0a800'><b>confirm</b></td><td>Surgery atlas + chart/DE kernel (128 x 16k): dev G 0.92 on one seed, best single-seed screen so far (NL-Loo 0.97, BE-Vie 0.80, DE-Gri 0.85, DK-Sor 1.06). Confirmation seeds queued (iteration 14).</td></tr><tr><td>16</td><td>9</td><td>h3_stretch128</td><td>moves</td><td>1.053</td><td></td><td style='color:#b2182b'><b>discard</b></td><td>Chart + stretch moves (128 x 16k), three seeds: dev G about 1.06 with very small seed spread; same situation as DE under v3.</td></tr><tr><td>15</td><td>9</td><td>h2_de128</td><td>moves</td><td>1.048</td><td></td><td style='color:#b2182b'><b>discard</b></td><td>Chart + DE moves (128 x 16k), three seeds: dev G 1.05 +/- 0.09 vs baseline 1.72 +/- 0.43. Under the v3 rule (0.86 below baseline) not accepted; the two-sample test gives t = 2.6. Re-tested with three fresh seeds under protocol v4 in iteration 13.</td></tr><tr><td>14</td><td>8</td><td>s3_surgery_volume</td><td>atlas_geometry</td><td>1.163</td><td></td><td style='color:#b2182b'><b>discard</b></td><td>Surgery with tangent-volume mixture weights: 1.16 (one seed), best of the three; the sampler&#x27;s best draws reach the truth&#x27;s density at 3 of 4 sites.</td></tr><tr><td>13</td><td>8</td><td>s2_surgery_noproj</td><td>atlas_geometry</td><td>1.287</td><td></td><td style='color:#b2182b'><b>discard</b></td><td>Surgery without normal projection: 1.29 (one seed). Worse than with projection at DK-Sor (1.48 vs 1.02), better at NL-Loo (1.74 vs 2.79): no clean signal yet.</td></tr><tr><td>12</td><td>8</td><td>s1_surgery</td><td>atlas_geometry</td><td>1.332</td><td></td><td style='color:#b2182b'><b>discard</b></td><td>Topology-aware surgery, defaults: dev G 1.33 vs 1.72 (one seed; below the 0.86 threshold). Better at DK-Sor (1.02 vs 3.5) and BE-Vie, worse at NL-Loo (2.79). 89-D trace: 27 branches, 11 rank-changes, 4 refines, 0 extend/merge; ESS 0.0002 after 6 rounds.</td></tr><tr><td>11</td><td>5</td><td>h9_seedstarts</td><td>starts</td><td>1.329</td><td></td><td style='color:#b2182b'><b>discard</b></td><td>Chains start from the polished seeds instead of chart centres: 1.33, no gain; NL-Loo and DK-Sor still miss the basin (rank 1.00).</td></tr><tr><td>10</td><td>5</td><td>h3_stretch128</td><td>moves</td><td>1.045</td><td></td><td style='color:#e0a800'><b>confirm</b></td><td>Chart + stretch moves, 128 x 16k: dev G 1.05 vs 1.72 (one seed); confirmation seeds queued. DK-Sor 1.29.</td></tr><tr><td>9</td><td>5</td><td>h2_de128</td><td>moves</td><td>0.962</td><td></td><td style='color:#e0a800'><b>confirm</b></td><td>Chart + DE moves, 128 walkers x 16k: dev G 0.96 vs baseline 1.72 (one seed). Improvement 0.76 is just under the noise floor 0.86; two more kernel seeds queued (iteration 9) before deciding. DK-Sor 1.36 vs 3.5.</td></tr><tr><td>8</td><td>4</td><td>v3_baseline</td><td>baseline</td><td>1.717</td><td>5.000</td><td style='color:#4d4d4d'><b>baseline</b></td><td>Protocol v2/v3 baseline: the v3 fast path at 4 dev sites x 3 seeds (+ CZ-wet holdout). Fails by never reaching the posterior basin at NL-Loo (density rank 1.00 all seeds), DK-Sor (G 14/2.6/3.0) and CZ-wet (5.2); fine at BE-Vie and DE-Gri.</td></tr><tr><td>7</td><td>2</td><td>h5_flat3</td><td>charts</td><td>1.447</td><td></td><td style='color:#bbbbbb'><b>v1-invalid</b></td><td>Chart proposal inflated x sqrt(3) in flat directions: 1.45 (v1 truths); worse at NL-Loo and BE-Vie.</td></tr><tr><td>6</td><td>2</td><td>h3_stretch128</td><td>moves</td><td>1.188</td><td></td><td style='color:#bbbbbb'><b>v1-invalid</b></td><td>Chart + stretch at 128 walkers x 16k steps: 1.19 (v1 truths), equal to baseline at equal wall-clock.</td></tr><tr><td>5</td><td>2</td><td>h2_de128</td><td>moves</td><td>1.358</td><td></td><td style='color:#bbbbbb'><b>v1-invalid</b></td><td>Chart + DE at 128 walkers x 16k steps: 1.36 (v1 truths). Good at ES-LJu (0.37) and DE-Gri, but collapsed at BE-Vie (3.57, rank 0.01).</td></tr><tr><td>4</td><td>1</td><td>h3_stretch512</td><td>moves</td><td>1.199</td><td></td><td style='color:#bbbbbb'><b>v1-invalid</b></td><td>Chart + Goodman-Weare stretch at 512 walkers: 1.20, equal to baseline at 62% of the wall-clock (34 vs 53 min). Best of the three; the 128-walker x 16k-step version runs in iteration 2.</td></tr><tr><td>3</td><td>1</td><td>h2_de512</td><td>moves</td><td>1.299</td><td></td><td style='color:#bbbbbb'><b>v1-invalid</b></td><td>Chart + differential-evolution moves at 512 walkers: 1.30, no gain. BE-Vie unchanged (2.57); DE collapsed too tightly at DE-Gri (rank 0.12).</td></tr><tr><td>2</td><td>1</td><td>h1_walkers512</td><td>walkers</td><td>1.425</td><td></td><td style='color:#bbbbbb'><b>v1-invalid</b></td><td>8x walkers (512 x 4k steps), chart moves only: worse (1.43). Walkers never contract in 2k burn-in steps: over-dispersed at ES-LJu (50% intervals hold 78%), density rank 0.9.</td></tr><tr><td>1</td><td>0</td><td>v3_baseline</td><td>baseline</td><td>1.190</td><td>2.005</td><td style='color:#bbbbbb'><b>v1-invalid</b></td><td>Baseline: the v3 fast path (chart-shaped walk, 64 chains x 32k steps, region screen + restarts) at 4 dev sites x 3 seeds and 4 holdout sites. Sets the noise floor.</td></tr></table>
 
 <h2>Log</h2>
 <h2>Log</h2>
@@ -848,6 +848,45 @@ ecological constraints reject (see the log entry "Protocol v2"); they are kept f
 </ul>
 <p>  NL-Loo scores of the campaign: G 0.47 (gamma 0.12) and 0.54 (gamma 0.25),</p>
 <p>  high-allocation mass 0.31 and 0.51 (truth 0.64).</p>
+<ul>
+<li>Follow-up on the 0.22 (sibling session&#x27;s confound check, 18:50 PDT): per</li>
+</ul>
+<p>  cold walker, 12 of 16 visited both budgets during the recorded 308 draws,</p>
+<p>  with a mean of 29 budget switches per walker (ADEMCMC: about 16 per 60</p>
+<p>  stored draws), while 4 walkers never left the low budget. So the tempered</p>
+<p>  cold chain does cross, frequently, and still integrates to 22% high-</p>
+<p>  allocation mass against ADEMCMC&#x27;s 82%: two samplers that both traverse the</p>
+<p>  ridge disagree on the weight. A control with the MAP point removed from the</p>
+<p>  seed file is queued (iteration 42) to rule out seeding; until it lands the</p>
+<p>  0.22 carries that caveat.</p>
+<ul>
+<li>Correction and a finding (19:00 PDT): the real-data tempering fit&#x27;s cold</li>
+</ul>
+<p>  rung accepted 22% of chart moves and only 0.5% of DE moves (swaps 26 to</p>
+<p>  46%). With 16 walkers per rung the differential-evolution vectors are drawn</p>
+<p>  from 8 partners and almost never accepted, so within the tempering runs the</p>
+<p>  movement is chart walk plus swaps. An 8-rung ladder with 32 walkers per rung</p>
+<p>  is queued (iteration 43) to see whether DE recovers inside rungs.</p>
+<h3>Toy referee (2026-09-03 20:10 PDT): the tempering kernel is biased; its tempering results are withdrawn pending a fix</h3>
+<ul>
+<li>On the 24-D toy (six basins with known weights 0.35 / 0.25 / 0.15 / 0.12 /</li>
+</ul>
+<p>  0.08 / 0.05), the same code paths used on CARDAMOM give: chart walk 64 x 32k</p>
+<p>  basin-mass TV 0.13, chart + DE 128 x 16k TV 0.14, and the tempering kernel</p>
+<p>  (16 rungs, 256 x 8k, whole density flattened, swaps 0.5 to 0.7) TV 0.44</p>
+<p>  with masses 0.79 / 0.21 / 0.00 / 0.00 / 0.00 / 0.00; 8 rungs TV 0.53. The</p>
+<p>  tempering kernel concentrates mass in the largest basin and empties the</p>
+<p>  rest, which a posterior-invariant kernel cannot do at any budget. One</p>
+<p>  defect is found already (the DE difference vector inside rungs was gathered</p>
+<p>  along a single coordinate); ablations without swaps, with one rung, and</p>
+<p>  with chart moves only are running to localise the bias.</p>
+<ul>
+<li>Consequence: every tempering result above (iterations 17, 19, 21, 24, 27,</li>
+</ul>
+<p>  33, 34, 35) is the output of a kernel that fails a known-answer test and</p>
+<p>  must not be read as a posterior estimate; the real-data 0.22 in particular</p>
+<p>  is void. The pending tempering jobs (37, 39-T2, 40 to 43) are withdrawn</p>
+<p>  until the kernel passes the toy.</p>
 
 <h2>Idea bank</h2>
 <h2>Idea bank</h2>
